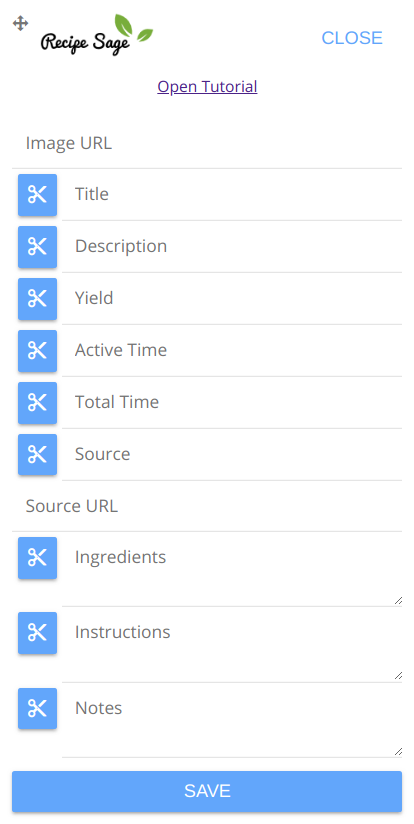
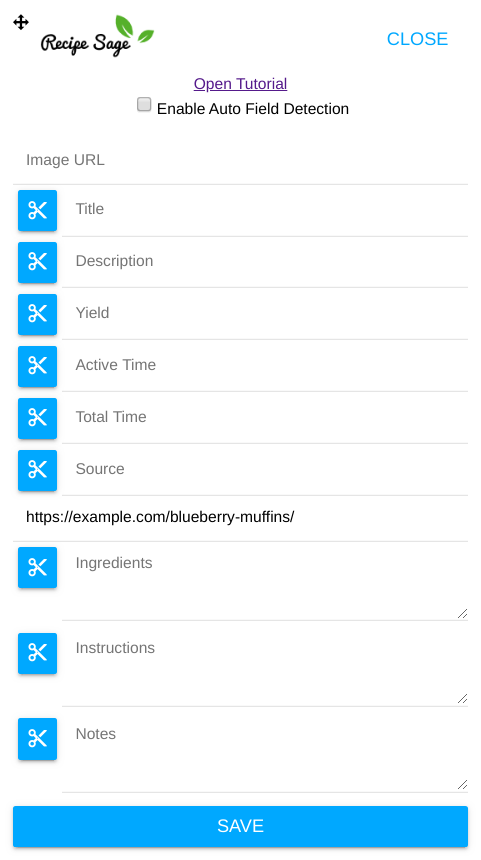
Update trips-tricks-tutorials page with autoclipping

diff --git a/Frontend/src/app/pages/info-components/tips-tricks-tutorials/tips-tricks-tutorials.page.html b/Frontend/src/app/pages/info-components/tips-tricks-tutorials/tips-tricks-tutorials.page.html
@@ -385,6 +385,25 @@
         Note: The clip tool is draggable. Click and hold on the icon in the upper left corner to move it anywhere within
         the page.
       </p>
+
+      <br />
+      <h2>Auto Field Detection (AutoClipping)</h2>
+      <div class="tutorial-image">
+        <img src="assets/tutorial/webextension-body-autoclipped.png" />
+      </div>
+      <p>
+        This is what the clip tool looks like when automatic field detection is enabled. To enable automatic field detection,
+        check the box at the top of the click tool and reload the page. Then re-open the clip tool.<br /><br />
+
+        When auto field detection is enabled, the clip tool will do it's best to find recognized fields within the page content.
+        When it detects corresponding content, it will automatically fill in the associated field.<br /><br />
+
+        This isn't perfect, unfortunately. Since every website is different, there is no "standard" way to recognize recipe content.
+        The clip tool does it's best to find common fields and naming conventions, but will sometimes get it wrong.<br /><br />
+
+        If the clip tool gets a field wrong, you can always select a different block of text on the page and hit the snip button next to
+        that field. The field will then be overwritten with your selection.
+      </p>
     </div>
 
     <br /><br />
